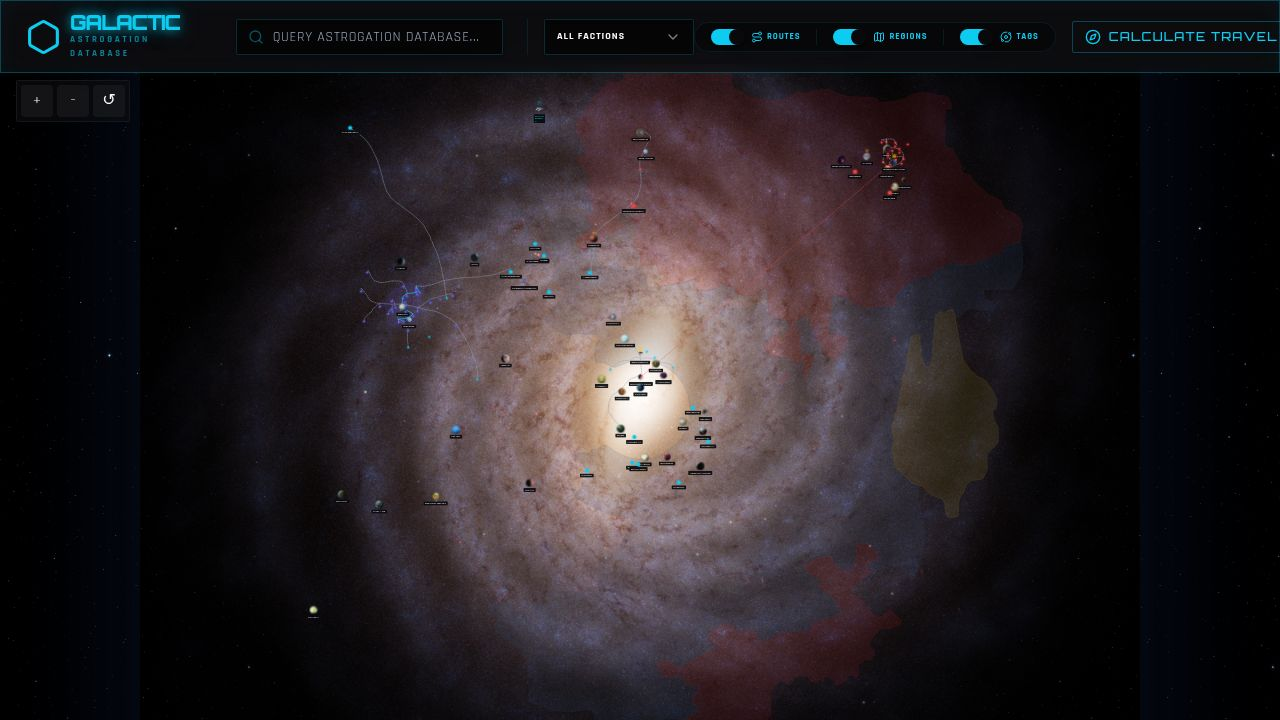
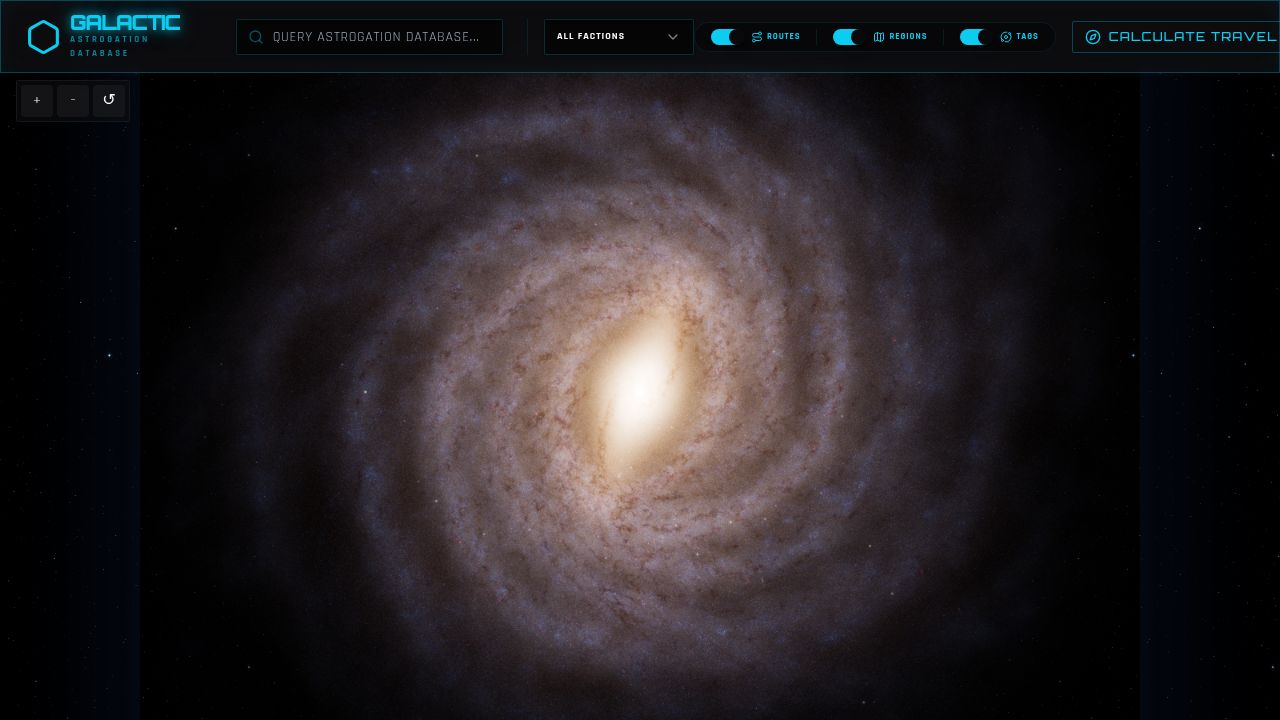
Center new planets and fleets and change independent planet color
Introduce viewport centering for new entity creation and update independent planet marker color to Forest Green.

Replit-Commit-Author: Agent
Replit-Commit-Session-Id: b0b4c11e-aa52-4ab0-b2b0-86a2e4e7cfd7
Replit-Commit-Checkpoint-Type: full_checkpoint
Replit-Commit-Event-Id: c3cbb00c-b116-46b7-ab55-38e68322454c
Replit-Commit-Screenshot-Url: https://storage.googleapis.com/screenshot-production-us-central1/cce723cc-92a2-4429-893e-b26478f7a821/b0b4c11e-aa52-4ab0-b2b0-86a2e4e7cfd7/xtbNXus
Replit-Helium-Checkpoint-Created: true

diff --git a/client/src/components/GalaxyMap.tsx b/client/src/components/GalaxyMap.tsx
@@ -23,7 +23,8 @@ export const GalaxyMap = () => {
     editMode, updatePlanet, updateSectorPoints, updateFleet, addLane, addSector, updateLanePathPoints,
     laneDrawMode, setLaneDrawMode,
     sectorDrawMode, setSectorDrawMode,
-    searchQuery, filters
+    searchQuery, filters,
+    setGetViewportCenter
   } = useMap();
 
   const mapWidth = 5000;
@@ -60,6 +61,23 @@ export const GalaxyMap = () => {
     }, 100);
     return () => clearTimeout(timer);
   }, []);
+
+  useEffect(() => {
+    setGetViewportCenter(() => {
+      const ref = transformRef.current;
+      if (!ref) return { x: mapWidth / 2, y: mapHeight / 2 };
+      const state = ref.instance.transformState;
+      const { scale, positionX, positionY } = state;
+      const container = ref.instance.wrapperComponent;
+      if (!container) return { x: mapWidth / 2, y: mapHeight / 2 };
+      const rect = container.getBoundingClientRect();
+      const centerScreenX = rect.width / 2;
+      const centerScreenY = rect.height / 2;
+      const mapX = (centerScreenX - positionX) / scale - pad;
+      const mapY = (centerScreenY - positionY) / scale - pad;
+      return { x: Math.round(mapX), y: Math.round(mapY) };
+    });
+  }, [setGetViewportCenter]);
 
   useEffect(() => {
     const handleKeyDown = (e: KeyboardEvent) => {
@@ -808,14 +826,22 @@ export const GalaxyMap = () => {
                           </div>
                         ) : (
                           <div className={cn(
-                            "rounded-full bg-primary relative transition-all",
+                            "rounded-full relative transition-all",
                             planet.isMinor ? "w-2.5 h-2.5" : "w-5 h-5",
-                            isSelected ? "shadow-[0_0_20px_hsl(var(--primary))] scale-125" : "shadow-[0_0_8px_hsl(var(--primary)/0.5)]",
-                            planet.faction === 'Empire' && "bg-destructive shadow-[0_0_12px_hsl(var(--destructive))]",
-                            planet.faction === 'Hutt Cartel' && "bg-green-500 shadow-[0_0_12px_#22c55e]",
-                            planet.faction === 'Chiss Ascendancy' && "bg-indigo-500 shadow-[0_0_12px_#6366f1]",
+                            planet.faction === 'Empire' ? "bg-destructive shadow-[0_0_12px_hsl(var(--destructive))]"
+                              : planet.faction === 'Hutt Cartel' ? "bg-green-500 shadow-[0_0_12px_#22c55e]"
+                              : planet.faction === 'Chiss Ascendancy' ? "bg-indigo-500 shadow-[0_0_12px_#6366f1]"
+                              : planet.faction === 'Galactic Republic' ? "bg-primary shadow-[0_0_12px_hsl(var(--primary))]"
+                              : "",
+                            !['Empire', 'Hutt Cartel', 'Chiss Ascendancy', 'Galactic Republic'].includes(planet.faction || '') && "shadow-[0_0_12px_hsl(137_41%_31%)]",
+                            isSelected && "scale-125",
                             isLaneStart && "bg-primary shadow-[0_0_20px_hsl(var(--primary))] scale-150"
-                          )}>
+                          )}
+                          style={
+                            !['Empire', 'Hutt Cartel', 'Chiss Ascendancy', 'Galactic Republic'].includes(planet.faction || '') && !isLaneStart
+                              ? { backgroundColor: 'hsl(137, 41%, 31%)' }
+                              : undefined
+                          }>
                             {isSelected && <div className="absolute inset-[-6px] border-2 border-primary rounded-full animate-ping opacity-75"></div>}
                           </div>
                         )}

diff --git a/client/src/components/TopBar.tsx b/client/src/components/TopBar.tsx
@@ -108,7 +108,8 @@ export const TopBar = () => {
     planets, lanes,
     addPlanet, setSelectedPlanet, addSector, addFleet,
     laneDrawMode, setLaneDrawMode,
-    sectorDrawMode, setSectorDrawMode
+    sectorDrawMode, setSectorDrawMode,
+    getViewportCenter
   } = useMap();
 
   const [isPasswordDialogOpen, setIsPasswordDialogOpen] = useState(false);
@@ -285,11 +286,12 @@ export const TopBar = () => {
   };
 
   const handleCreatePlanet = () => {
+    const center = getViewportCenter();
     const newPlanet: Planet = {
       id: `p${Date.now()}`,
       name: 'Uncharted World',
-      x: 1500,
-      y: 1125,
+      x: center.x,
+      y: center.y,
       sectorId: 's1',
       faction: 'Independent',
       habitable: true,
@@ -312,11 +314,12 @@ export const TopBar = () => {
   };
 
   const handleCreateFleet = () => {
+    const center = getViewportCenter();
     const newFleet: Fleet = {
       id: `f${Date.now()}`,
       name: 'Strike Group A',
-      x: 1500,
-      y: 1125,
+      x: center.x,
+      y: center.y,
       icon: 'default',
       faction: 'Independent',
       description: 'Fleet awaiting orders.'

diff --git a/client/src/lib/MapProvider.tsx b/client/src/lib/MapProvider.tsx
@@ -28,6 +28,14 @@ export const MapProvider = ({ children }: { children: ReactNode }) => {
   const [editMode, setEditMode] = useState(false);
   const [laneDrawMode, setLaneDrawMode] = useState(false);
   const [sectorDrawMode, setSectorDrawMode] = useState(false);
+  const viewportCenterFnRef = useRef<(() => { x: number; y: number }) | null>(null);
+  const getViewportCenter = useCallback(() => {
+    if (viewportCenterFnRef.current) return viewportCenterFnRef.current();
+    return { x: 3000, y: 3000 };
+  }, []);
+  const setGetViewportCenter = useCallback((fn: () => { x: number; y: number }) => {
+    viewportCenterFnRef.current = fn;
+  }, []);
   const [searchQuery, setSearchQuery] = useState('');
   
   const [filters, setFilters] = useState({
@@ -279,7 +287,9 @@ export const MapProvider = ({ children }: { children: ReactNode }) => {
       deletePlanet,
       deleteFleet,
       deleteSector,
-      deleteLane
+      deleteLane,
+      getViewportCenter,
+      setGetViewportCenter
     }}>
       {children}
     </MapContext.Provider>

diff --git a/client/src/lib/data.ts b/client/src/lib/data.ts
@@ -110,6 +110,8 @@ export interface MapContextType {
   deleteFleet: (id: string) => void;
   deleteSector: (id: string) => void;
   deleteLane: (id: string) => void;
+  getViewportCenter: () => { x: number; y: number };
+  setGetViewportCenter: (fn: () => { x: number; y: number }) => void;
 }
 
 export const MapContext = createContext<MapContextType | undefined>(undefined);
